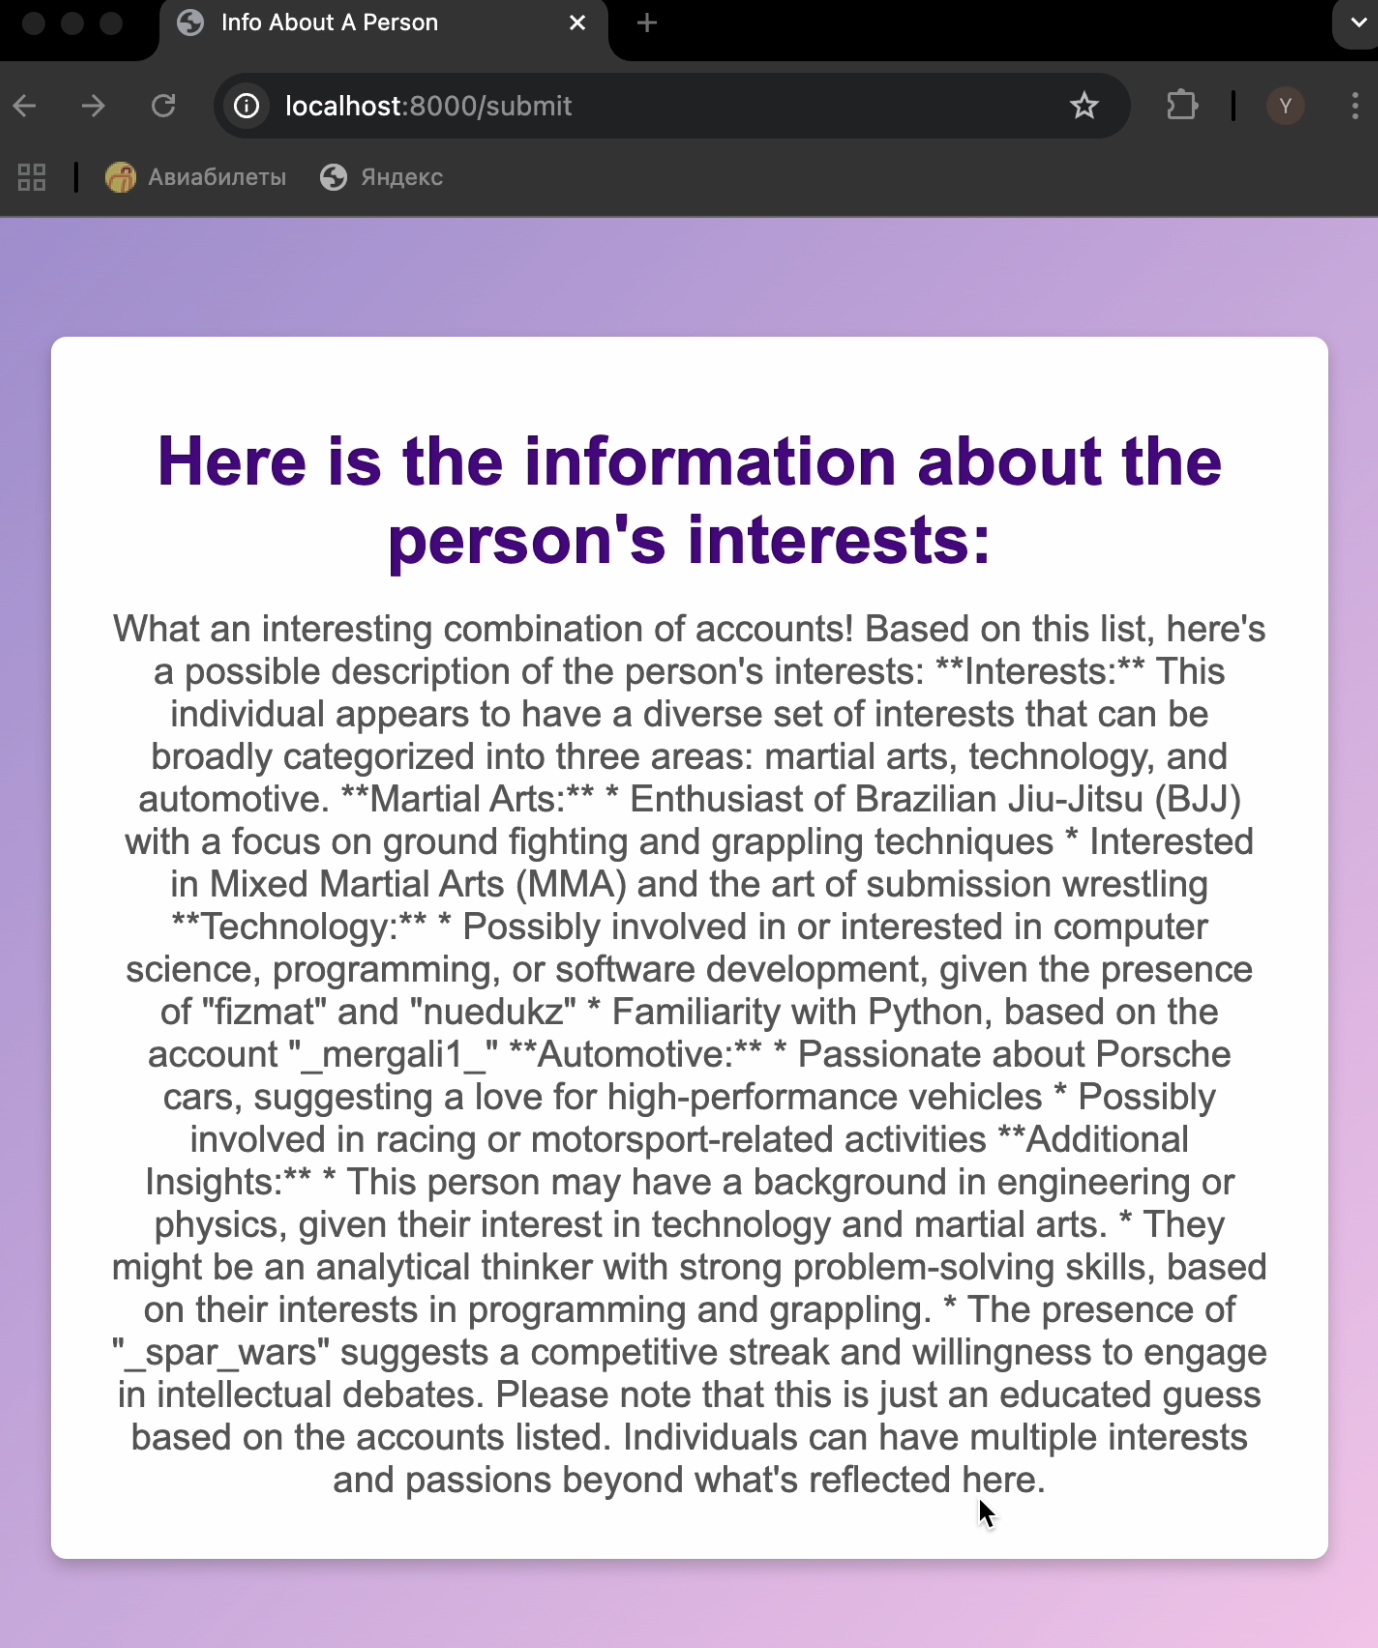
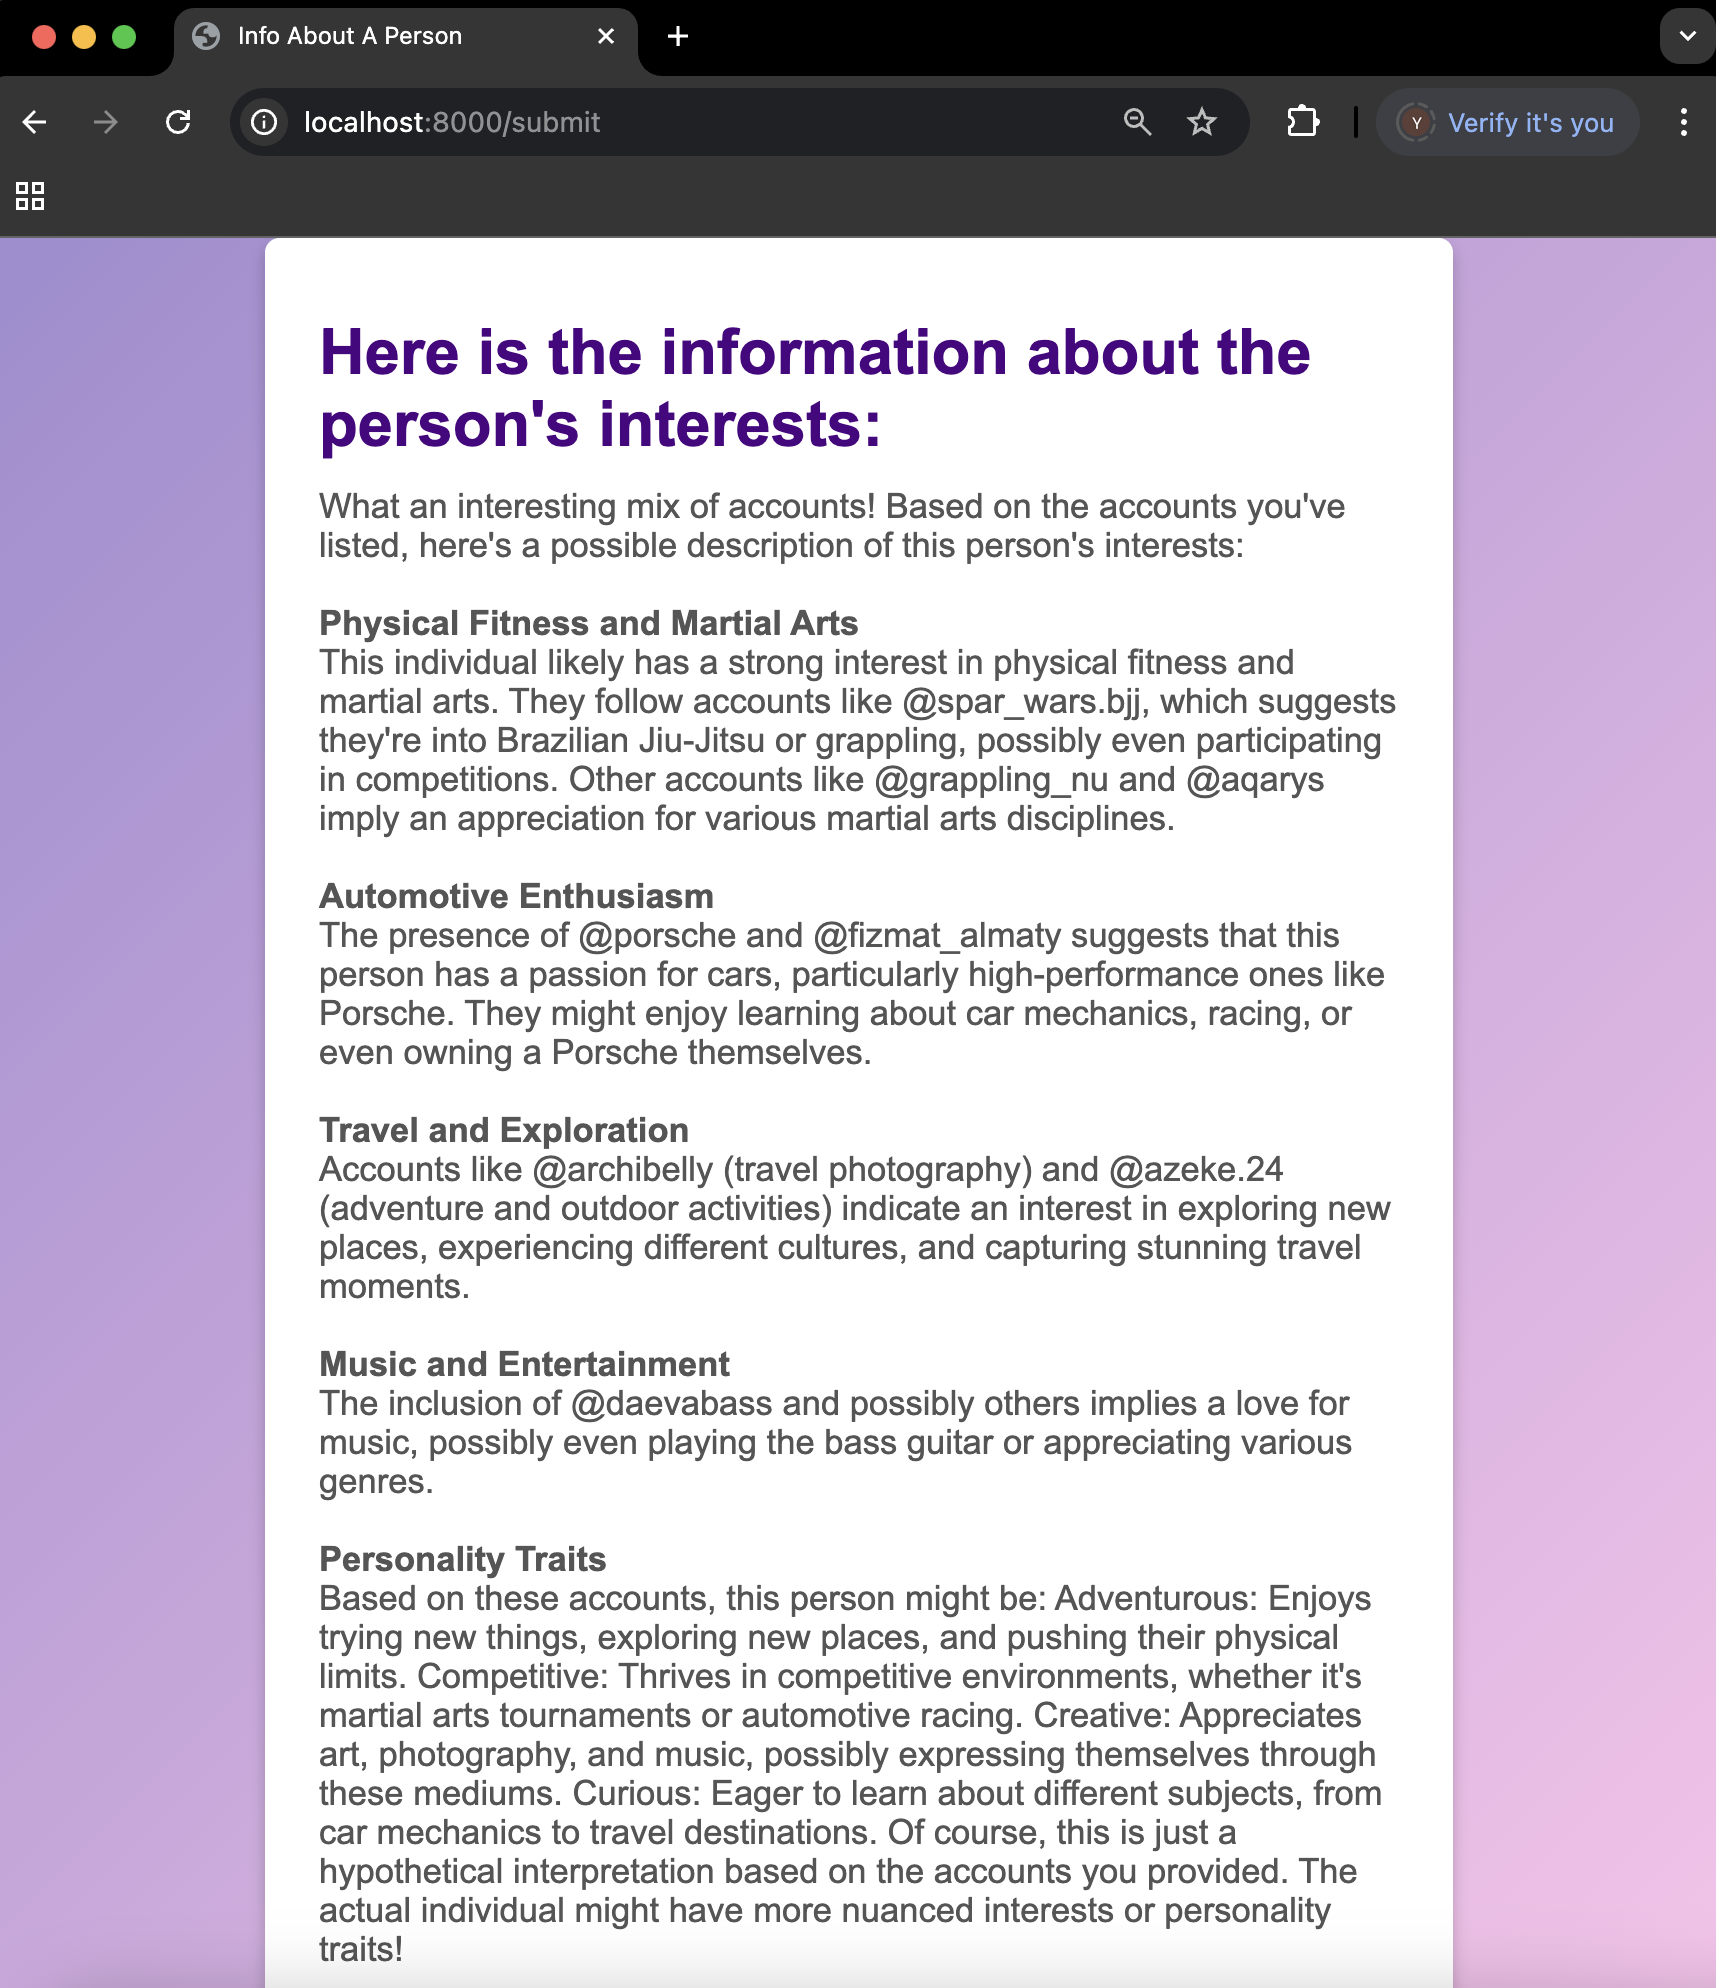
formatting of web page corrected and screenshot changed

diff --git a/templates/submit.html b/templates/submit.html
@@ -11,11 +11,12 @@
             padding: 0;
             display: flex;
             justify-content: center;
-            align-items: center;
-            text-align: center;
+            align-items: flex-start;;
+            text-align: left;
             height: 100vh;
             background: linear-gradient(135deg, #a18cd1, #fbc2eb);
             color: #333;
+            overflow-y: auto;
         }
 
         /* Centered content container */
@@ -45,7 +46,7 @@
 <body>
     <div class="centered-content">
         <h1>Here is the information about the person's interests:</h1>
-        <p>{{prompt_result}}</p>
+        <p>{{ prompt_result|safe }}</p>
     </div>
 </body>
 </html>

diff --git a/src/main.py b/src/main.py
@@ -1,3 +1,5 @@
+import re
+
 from fastapi import FastAPI, Form, Request
 from fastapi.responses import HTMLResponse
 from fastapi.templating import Jinja2Templates
@@ -47,6 +49,11 @@ async def handle_form(
     prompt = get_prompt(userInput)
 
     prompt_result = give_description(prompt)
+
+    prompt_result = re.sub(
+        r"\*\*(.*?)\*\*:", r"<br><br><b>\1</b><br>", prompt_result
+    )
+    prompt_result = re.sub(r"(\d\.)", r"", prompt_result)
 
     return templates.TemplateResponse(
         "submit.html", {"request": request, "prompt_result": prompt_result}
